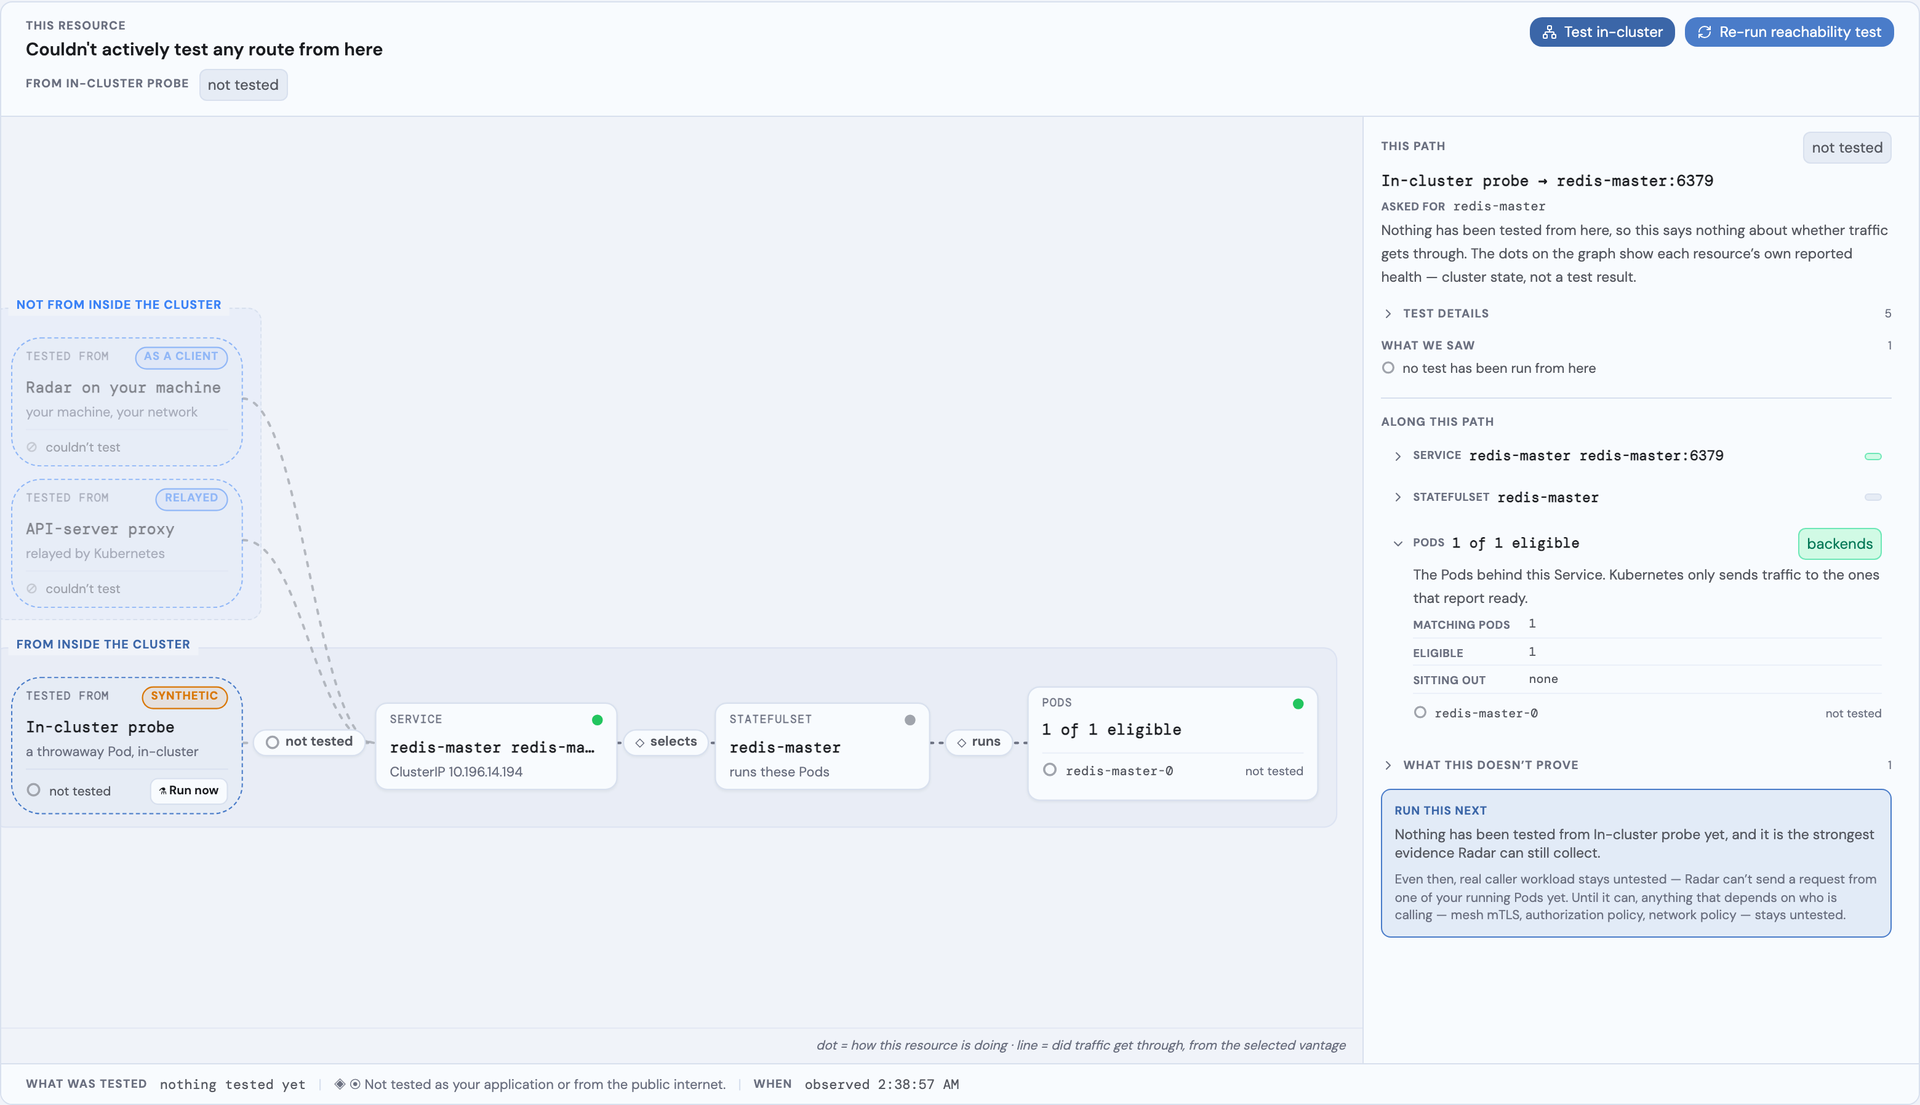
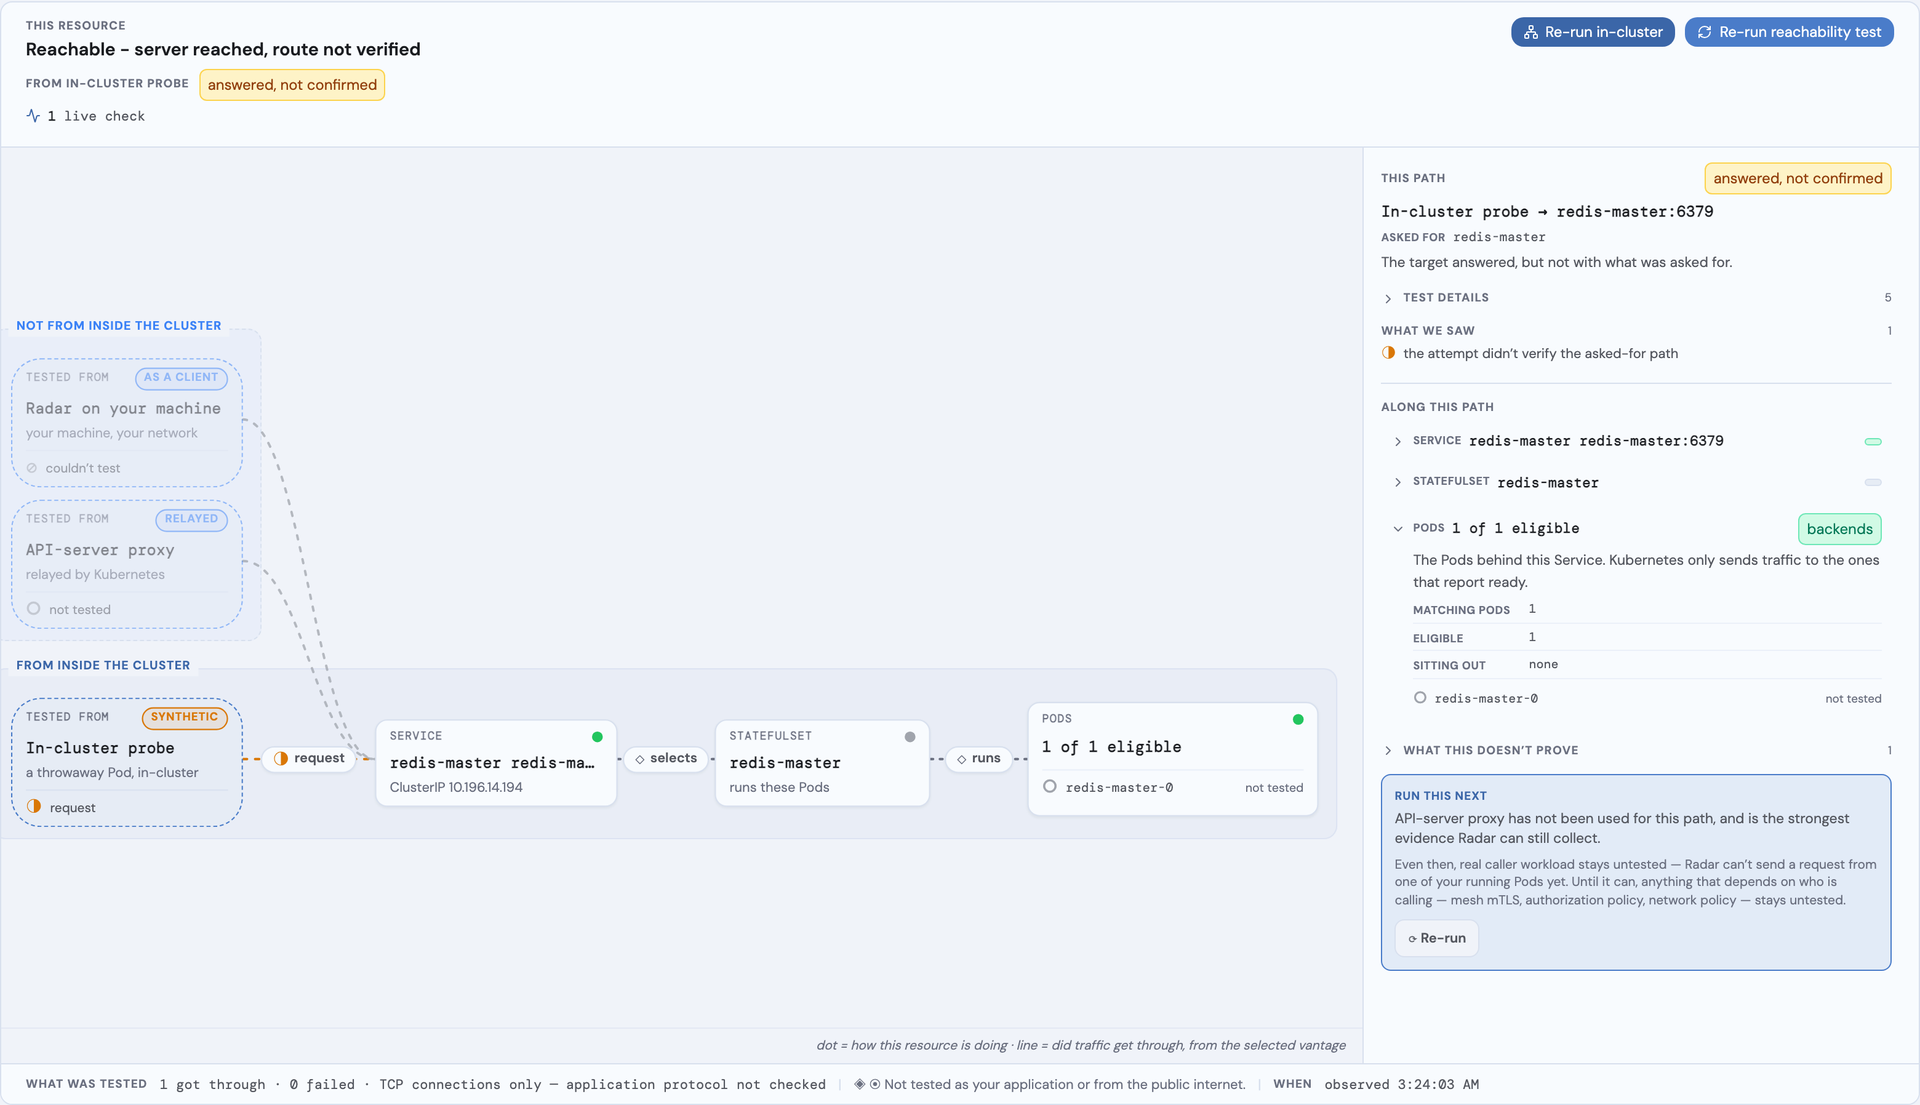
docs: screenshots for the reachability doc
Four element-scoped captures at the house 1920-wide standard, chosen for
the scenarios that actually show the model rather than a bare chain:

- a Service with an Ingress AND an HTTPRoute as parallel entries, one of
  them unattached, judged independently
- an Ingress subject dialled from outside through DNS/TCP/TLS/HTTP
- a non-HTTP Redis Service after a successful in-cluster TCP test, with
  the coverage line stating that proof~s ceiling
- kube-dns declaring TCP and UDP on one number as two declared paths

diff --git a/packages/k8s-ui/src/components/trace/reachInspector.ts b/packages/k8s-ui/src/components/trace/reachInspector.ts
@@ -1,6 +1,6 @@
 import type { Trace, RouteResult, ResourceRef } from './types'
 import type { Mark, SevTone } from './reachMarks'
-import { routeMark, routeChip, routeTone, routeAsSeenFrom, originRouteEvidence, routeForOrigin, traceInClusterRunnable } from './reachMarks'
+import { routeMark, routeChip, routeTone, routeAsSeenFrom, originRouteEvidence, routeForOrigin, traceInClusterRunnable, markHelp } from './reachMarks'
 import type { Origin, OriginId } from './reachOrigins'
 import { strongestGap, actionableGap, originSkipReason } from './reachOrigins'
 import { hopEvidenceFor, originProducedEvidence, type GraphNode } from './reachGraphModel'
@@ -338,6 +338,10 @@ function pathSection(ctx: Ctx): Sidebar['path'] {
     evidence.push({ mark: m, text })
   }
   if ((hasEvidence || fromConfig) && asSeen?.evidence) add(mark, asSeen.evidence)
+  // A result with no evidence STRING is still a result. Falling through to the
+  // "nothing ran" default below printed "no test has been run from here" beside
+  // a headline reporting what that very run found.
+  else if (hasEvidence && asSeen) add(mark, markHelp(mark))
   // What this vantage saw at each HOP. The route is built from the backend's
   // probes, so a laptop that dialled the front door and got an answer had all
   // of it discarded and read as "no test has been run from here" - beside a

diff --git a/packages/k8s-ui/src/components/trace/reachInspector.test.ts b/packages/k8s-ui/src/components/trace/reachInspector.test.ts
@@ -667,3 +667,14 @@ describe('a fresh failed attempt outranks leftover skip rows', () => {
     expect(texts).not.toContain('stale skip')
   })
 })
+
+describe('a result with no evidence string still reads as a result', () => {
+  it('never says "no test has been run" beside an outcome that ran', () => {
+    const t = mk([pod('a', true, '10.0.0.1')], [p({ layer: 'tcp', path: 'data', ok: true })])
+    const r = route({ route: 'redis', target: 'redis:6379', outcome: 'reached', confidence: 'real', evidence: undefined })
+    t.routes = [r]
+    const texts = buildSidebar(undefined, ctx(t, 'incluster', r)).path.evidence.map((e) => e.text).join('\n')
+    expect(texts).not.toContain('no test has been run from here')
+    expect(texts.length).toBeGreaterThan(0)
+  })
+})

diff --git a/pkg/probe/probe_test.go b/pkg/probe/probe_test.go
@@ -485,3 +485,29 @@ func TestIsAPIServerTunnelDown(t *testing.T) {
 		t.Error("nil is not a tunnel-down")
 	}
 }
+
+// A successful TCP dial must name what it observed: an empty Detail leaves the
+// route's evidence blank, which downstream renders as "no test has been run".
+func TestTCP_SuccessCarriesDetail(t *testing.T) {
+	ln, err := net.Listen("tcp", "127.0.0.1:0")
+	if err != nil {
+		t.Fatalf("listen: %v", err)
+	}
+	defer ln.Close()
+	go func() {
+		c, err := ln.Accept()
+		if err == nil {
+			_ = c.Close()
+		}
+	}()
+	orig := dialControl
+	dialControl = nil // the SSRF guard blocks loopback; this test is about the success Detail
+	defer func() { dialControl = orig }()
+	r := TCP(context.Background(), ln.Addr().String(), VantageLocal)
+	if !r.OK {
+		t.Fatalf("dial failed: %+v", r)
+	}
+	if r.Detail == "" {
+		t.Error("a successful TCP probe must carry a Detail - empty evidence reads as 'nothing ran'")
+	}
+}

diff --git a/pkg/probe/probe.go b/pkg/probe/probe.go
@@ -395,6 +395,12 @@ func TCP(ctx context.Context, addr string, vantage Vantage) Result {
 	}
 	_ = conn.Close()
 	r.OK = true
+	// Every other layer names what it observed (DNS "resolved to ...", TLS
+	// "valid · ...", HTTP "HTTP 200 ..."). A silent TCP success left the route's
+	// evidence empty, and an empty evidence string reads downstream as "no test
+	// has been run from here" - the exact contradiction beside a passing result
+	// that this view exists to prevent.
+	r.Detail = "TCP connection succeeded"
 	return r
 }
 

diff --git a/docs/reachability.md b/docs/reachability.md
@@ -17,9 +17,9 @@ The active layer can escalate the static verdict when probes give clear evidence
 
 Probes run from the operator's current vantage (laptop or in-cluster). A failure caused by the vantage itself - NetworkPolicy blocking Radar's path, a service-mesh mTLS handshake without a client cert, an API-server-proxy probe that can't reach an internal address - is **never** allowed to set the headline. Only a real-traffic (data-path) result escalates the verdict; an API-server-proxy-only or otherwise vantage-attributable failure annotates the hop and localizes the symptom but leaves the verdict at *unknown* / *not confirmed* rather than condemning a path that real traffic may well reach. This is the fail-toward-silence rule: Radar would rather say "couldn't confirm from here" than false-condemn a healthy path. See "What it deliberately does NOT do" below for the boundaries of what probes can and cannot tell you.
 
-![The Reachability tab: the verdict band with the live-check count, selectable vantage capsules on the left, the path graph, and the journey inspector on the right](images/reachability/reachability-verdict-and-path.png)
+![A Service reached by both an Ingress and an HTTPRoute: parallel entry points on the left, the path graph, and the journey inspector on the right](images/reachability/reachability-parallel-entries.png)
 
-*Reached via the API-server relay: the verdict says so out loud, the capsule that produced the evidence is highlighted, and the inspector names what the result does not prove.*
+*One Service, two declared front doors. Each entry is judged on its own - the HTTPRoute here is not attached to any listener - and the verdict names the vantage it speaks from: reached via the API-server relay, which is not the live-traffic path.*
 
 ## Mental model
 
@@ -94,11 +94,15 @@ Every claim on the page carries its evidence: the verdict band states the live-c
 
 ![A Redis Service: the in-cluster probe capsule offers Run now, and the path shows the declared TCP route](images/reachability/reachability-non-http-service.png)
 
-*A non-HTTP Service (Redis on 6379). The declared port survives as a runnable candidate the in-cluster test can dial with TCP - no HTTP request is ever sent at it.*
+*A non-HTTP Service (Redis on 6379) after an in-cluster test: the throwaway Pod connected over TCP, and the coverage line states the ceiling of that proof - "TCP connections only - application protocol not checked".*
 
 ![A Service declaring both TCP and UDP on port 53: the PATH picker lists them separately](images/reachability/reachability-dual-protocol-port.png)
 
 *kube-dns declares TCP and UDP on the same number. Each is its own declared path: the TCP route is testable, and the UDP one stays a stated gap rather than being folded away.*
+
+![An Ingress subject: the front door is dialled from outside and the backend answers, with the entry path called out as unexercised](images/reachability/reachability-ingress-front-door.png)
+
+*A front-door subject. Radar dials the declared hostname from your machine (DNS, TCP, TLS, then HTTP) - here a 308 redirect - while the headline stays honest that a backend-only confirmation does not exercise the entry path.*
 
 ## What it deliberately does NOT do
 
